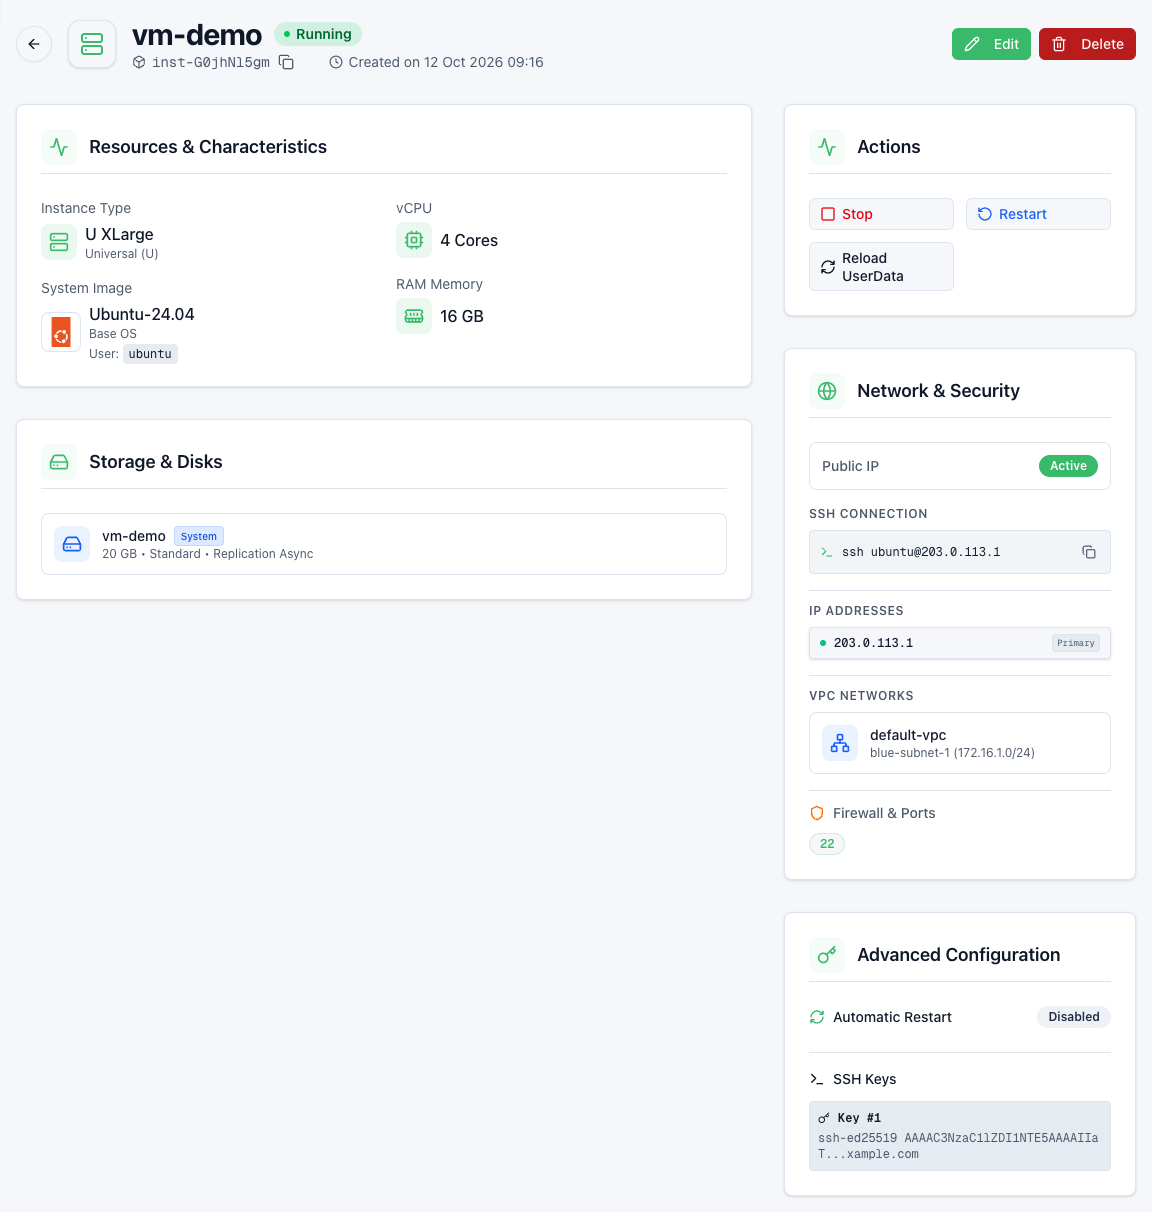
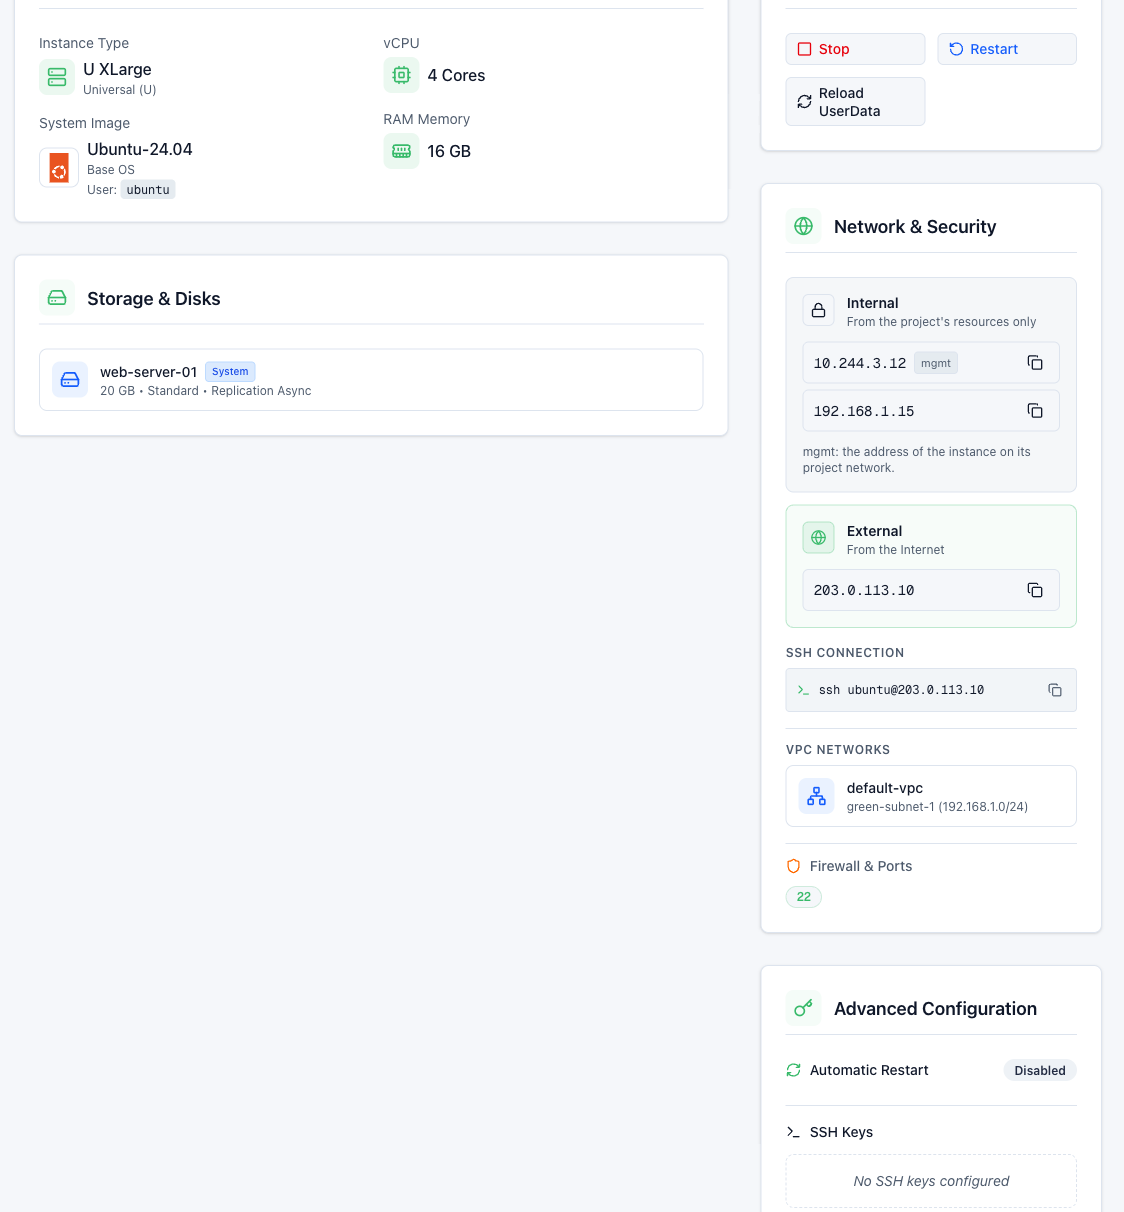
docs: finish the address wording and retake the VM network capture
Pages left out of the previous change still described the Primary and
Secondary addresses, the Host field and the Public IP set to Active.
The VM detail captures (fr, en) show the Internal and External zones,
taken in mock mode with fictitious data.

diff --git a/docs/services/databases/mongodb/concepts.md b/docs/services/databases/mongodb/concepts.md
@@ -145,7 +145,7 @@ Un cluster créé avec un ancien preset (`nano`, `micro`, `small`, `medium`, `la
 - **Accès externe désactivé** (par défaut) : le cluster n'est pas exposé sur Internet. La zone **Externe** affiche **Désactivé**.
 - **Accès externe activé** : le port est le port MongoDB standard, `27017`, sans TLS.
   - **Cluster shardé** : la plateforme attribue une adresse publique aux routeurs Mongos, affichée dans la zone **Externe**. L'assistant fournit une chaîne de connexion de la forme `mongodb://<utilisateur>:<password>@<hôte>`.
-  - **Replica set** : chaque membre reçoit sa propre adresse publique. La zone **Externe** les liste (**membre 1**, **membre 2**…), chacune avec un bouton de copie, et la carte **Connexion et réseau** et propose une **Chaîne de connexion externe** de la forme `mongodb://<user>:<password>@<membre>:27017/?directConnection=true&authSource=admin`. Connectez-vous ainsi à un membre en connexion directe, sans paramètre `replicaSet` : les membres s'annoncent sous des noms internes au cluster, qui ne se résolvent pas depuis l'extérieur. Le membre joint peut être un secondaire, qui n'accepte pas les écritures : lisez avec `readPreference=secondaryPreferred`, et écrivez sur le membre primaire.
+  - **Replica set** : chaque membre reçoit sa propre adresse publique. La zone **Externe** les liste (**membre 1**, **membre 2**…), chacune avec un bouton de copie, et la carte **Connexion et réseau** propose une **Chaîne de connexion externe** de la forme `mongodb://<user>:<password>@<membre>:27017/?directConnection=true&authSource=admin`. Connectez-vous ainsi à un membre en connexion directe, sans paramètre `replicaSet` : les membres s'annoncent sous des noms internes au cluster, qui ne se résolvent pas depuis l'extérieur. Le membre joint peut être un secondaire, qui n'accepte pas les écritures : lisez avec `readPreference=secondaryPreferred`, et écrivez sur le membre primaire.
 
 ---
 

diff --git a/docs/services/messaging/rabbitmq/how-to/scale-resources.md b/docs/services/messaging/rabbitmq/how-to/scale-resources.md
@@ -37,7 +37,7 @@ La page **Modifier RabbitMQ** affiche la carte **Paramètres du cluster**. Les c
 - **Accès externe** : activez ou désactivez l'interrupteur.
 
 :::warning Changement de version
-Quand vous changez la version, l'avertissement « Les instances du cluster vont redémarrer » s'affiche : une version mise à niveau ne peut plus être abaissée. Le changement de version recrée les nœuds RabbitMQ un par un : avec un seul réplica, le cluster est indisponible pendant le redémarrage (de l'ordre d'une à deux minutes) et les clients doivent se reconnecter. L'adresse du champ **Hôte (Host)** ne change pas. Testez le changement de version sur un cluster hors production avant de l'appliquer à un cluster de production, et vérifiez la compatibilité de vos clients avec la version cible.
+Quand vous changez la version, l'avertissement « Les instances du cluster vont redémarrer » s'affiche : une version mise à niveau ne peut plus être abaissée. Le changement de version recrée les nœuds RabbitMQ un par un : avec un seul réplica, le cluster est indisponible pendant le redémarrage (de l'ordre d'une à deux minutes) et les clients doivent se reconnecter. Les adresses des zones **Interne** et **Externe** ne changent pas. Testez le changement de version sur un cluster hors production avant de l'appliquer à un cluster de production, et vérifiez la compatibilité de vos clients avec la version cible.
 :::
 
 ### 3. Enregistrer

diff --git a/docs/services/networking/concepts.md b/docs/services/networking/concepts.md
@@ -41,8 +41,8 @@ graph TB
 | **VPC** | Réseau privé isolé du projet. Il n'a pas de plage d'adresses propre : ce sont ses sous-réseaux qui en portent. |
 | **Sous-réseau** | Plage d'adresses IPv4 privée (bloc CIDR) au sein d'un VPC. Une VM se relie à un ou plusieurs sous-réseaux. |
 | **Bloc CIDR** | Notation d'une plage d'adresses, par exemple `172.16.0.0/24` (256 adresses, de `172.16.0.0` à `172.16.0.255`). |
-| **Réseau principal** | Réseau par défaut de toute VM, avec la passerelle par défaut et l'IP publique éventuelle. Affiché comme adresse **Principale** sur la page de détail de la VM. |
-| **Interface secondaire** | Interface réseau ajoutée à la VM pour chaque sous-réseau relié. Ses adresses apparaissent comme **Secondaire**. |
+| **Réseau principal** | Réseau du projet, auquel toute VM est reliée par son interface principale, avec la passerelle par défaut. Son adresse est l'IP **mgmt**, affichée dans la zone **Interne** de la page de détail de la VM ; l'IP publique éventuelle s'affiche dans la zone **Externe**. |
+| **Interface secondaire** | Interface réseau ajoutée à la VM pour chaque sous-réseau relié. Ses adresses apparaissent dans la zone **Interne**, à côté de l'IP **mgmt**. |
 
 ---
 

diff --git a/docs/services/networking/quick-start.md b/docs/services/networking/quick-start.md
@@ -110,7 +110,7 @@ sudo netplan apply
 ip -br addr show enp2s0
 ```
 
-**Résultat attendu :** `enp2s0` est `UP` avec une adresse en `172.16.0.x/24`, celle affichée comme **Secondaire** dans la console. Faites de même sur la seconde VM.
+**Résultat attendu :** `enp2s0` est `UP` avec une adresse en `172.16.0.x/24`, celle affichée dans la zone **Interne** de la console, à côté de l'IP **mgmt**. Faites de même sur la seconde VM.
 
 Testez la communication avec la seconde VM sur son adresse privée :
 
@@ -118,7 +118,7 @@ Testez la communication avec la seconde VM sur son adresse privée :
 ping -c 3 172.16.0.11
 ```
 
-Remplacez `172.16.0.11` par l'adresse **Secondaire** relevée à l'étape 4. Le ping doit répondre ; ce trafic ne passe ni par Internet ni par le pare-feu de l'IP publique.
+Remplacez `172.16.0.11` par l'adresse du sous-réseau relevée à l'étape 4. Le ping doit répondre ; ce trafic ne passe ni par Internet ni par le pare-feu de l'IP publique.
 
 ---
 

diff --git a/docs/services/compute/quick-start.md b/docs/services/compute/quick-start.md
@@ -146,7 +146,7 @@ lsblk
 | Symptôme | Vérification |
 |----------|--------------|
 | **Suivant** reste grisé à l'étape Configuration ou Stockage | Un quota du projet est dépassé : réduisez le gabarit ou la taille du disque, ou faites augmenter les quotas du projet. |
-| `Connection timed out` en SSH | Vérifiez sur la page de détail que **IP Publique** est **Active** et que le port 22 figure dans **Pare-feu & Ports**. |
+| `Connection timed out` en SSH | Vérifiez sur la page de détail que la zone **Externe** affiche une adresse et que le port 22 figure dans **Pare-feu & Ports**. |
 | `Permission denied (publickey)` | Vérifiez l'utilisateur (bloc **Connexion SSH**) et que la clé privée utilisée correspond à la clé publique listée dans **Configuration avancée** > **Clés SSH**. |
 | Statut **Erreur** ou **Échec** | Consultez le [dépannage](./troubleshooting.md). |
 

diff --git a/docs/services/databases/redis/troubleshooting.md b/docs/services/databases/redis/troubleshooting.md
@@ -44,7 +44,7 @@ description: "Résolvez les problèmes de Redis sur Hikube : cluster en erreur, 
 **Solution** :
 
 1. Vérifiez que le **Statut** de la section **Connexion** est **Prêt**.
-2. Copiez l'**Hôte** avec le bouton de copie pour éviter les erreurs de saisie.
+2. Copiez l'adresse avec son bouton de copie pour éviter les erreurs de saisie : zone **Externe** depuis Internet, zone **Interne** depuis le projet.
 3. Vérifiez qu'aucun pare-feu sortant de votre réseau ne bloque le port `6379`.
 
 ### Authentification échoue (`NOAUTH` ou `WRONGPASS`)

diff --git a/docs/services/networking/how-to/attach-vm-to-vpc.md b/docs/services/networking/how-to/attach-vm-to-vpc.md
@@ -74,7 +74,7 @@ sudo netplan apply
 ip -br addr show enp2s0
 ```
 
-**Résultat attendu :** `enp2s0` est `UP` avec l'adresse **Secondaire** affichée dans la console, par exemple `172.16.0.11/24`.
+**Résultat attendu :** `enp2s0` est `UP` avec l'adresse du sous-réseau affichée dans la zone **Interne** de la console, par exemple `172.16.0.11/24`.
 
 `use-routes: false` évite que l'interface VPC ne remplace la route par défaut : l'accès Internet continue de passer par l'interface principale.
 
